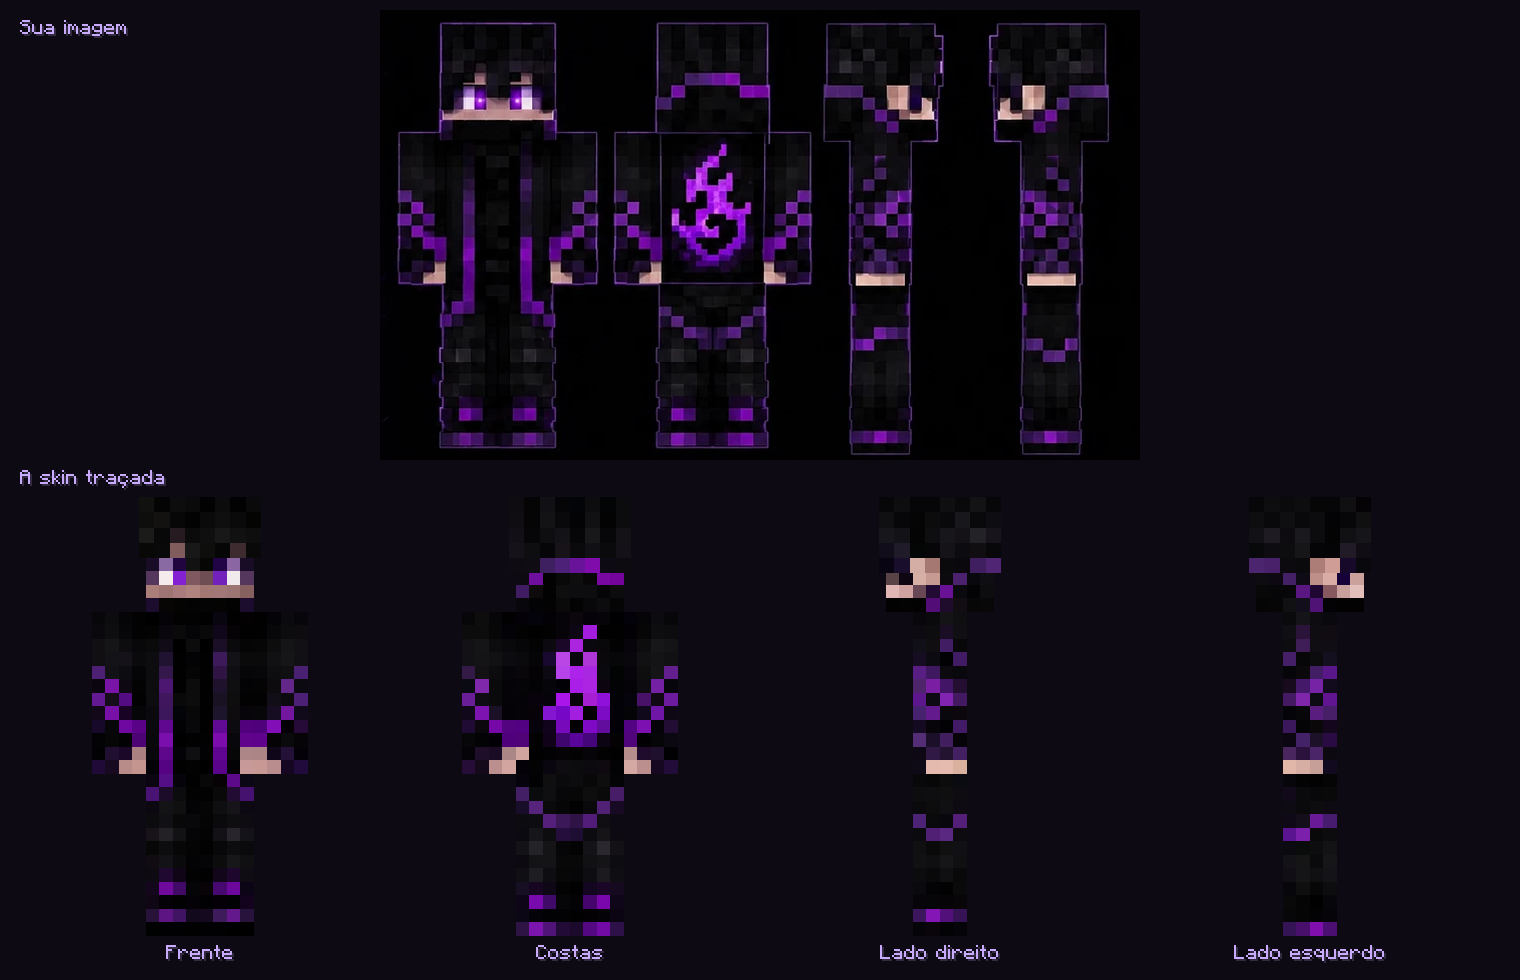
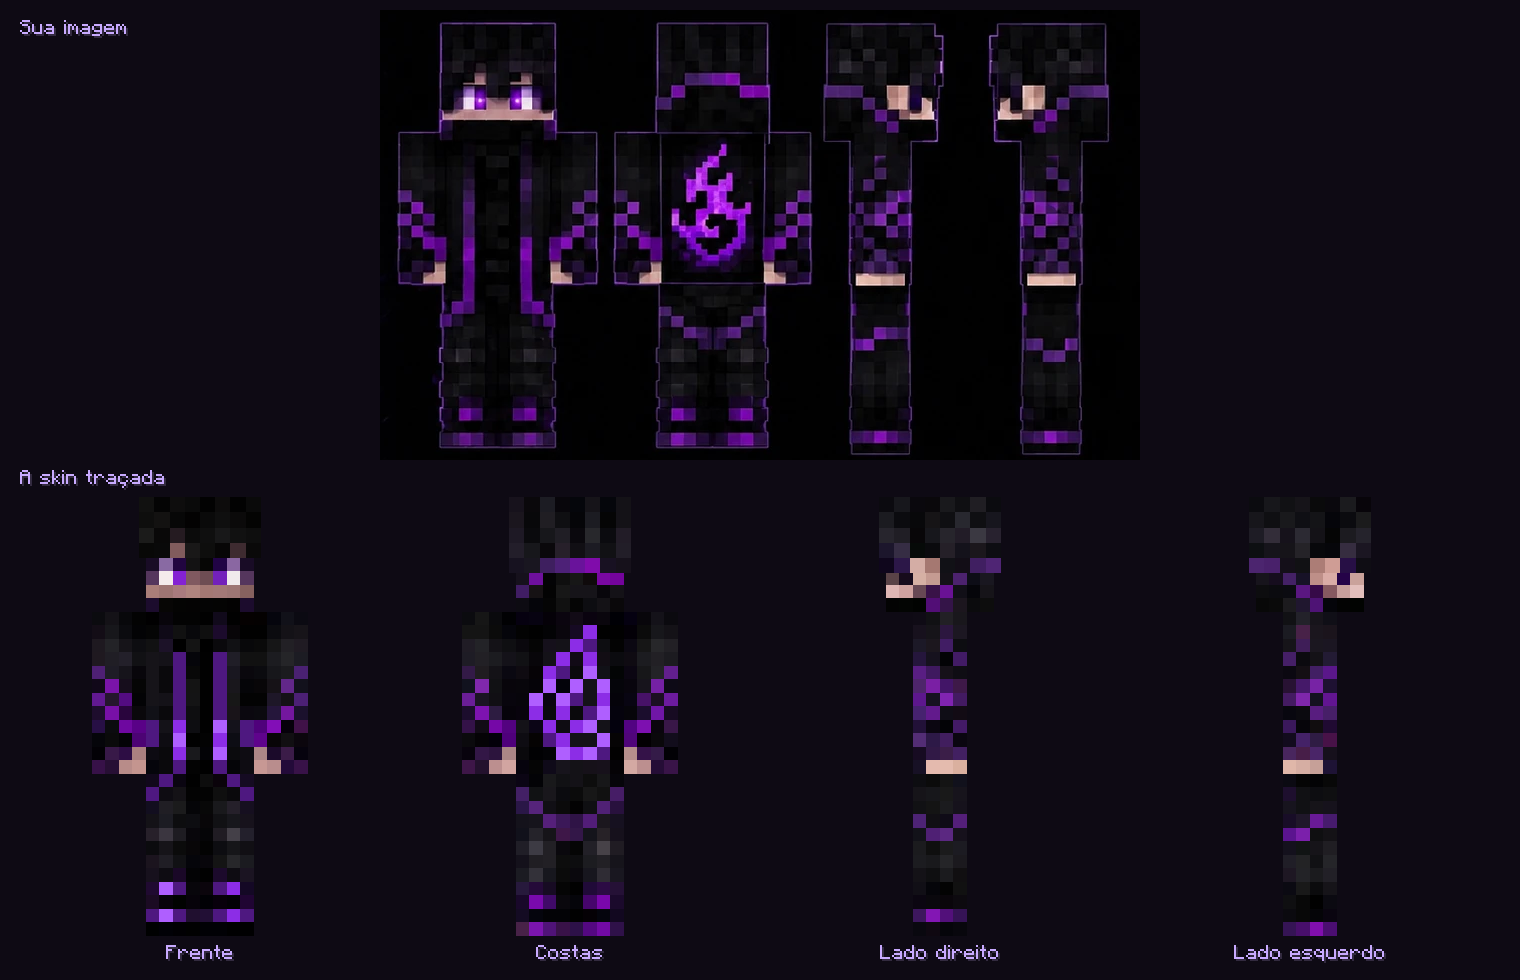
Skin Sombra Roxa tracada: chama em contorno, faixas do casaco e preto com textura
Claude-Session: https://claude.ai/code/session_01Vzt37KYgrEvBbcVjWKzEed

diff --git a/tools/gerar_skin_sombra_roxa_tracada.py b/tools/gerar_skin_sombra_roxa_tracada.py
@@ -38,7 +38,67 @@ def cor_do_bloco(p):
     for m in (roxo, pele):
         if m.mean() >= 0.35:
             return tuple(int(v) for v in np.median(p[m], axis=0))
-    return tuple(int(v) for v in np.median(p, axis=0))
+    c = np.median(p, axis=0)
+    if c.max() < 70:                       # bloco preto: realça a textura de cinza da referência
+        c = np.minimum(c * 1.7, 72)
+    return tuple(int(v) for v in c)
+
+
+# Desenhos feitos à mão, bloco a bloco, a partir do mapa de roxo da referência
+# (C = roxo vivo, N = roxo escuro, . = mantém o preto traçado).
+VIVO, MEDIO, ESCURO = (175, 95, 255), (140, 45, 230), (78, 24, 128)
+DESENHOS = {
+    "c_corpo": ["........",      # chama em contorno, como na referência: ponta à direita, pontinha à
+                ".....C..",      # esquerda, lados descendo, espiral por dentro e base fechada
+                "....CN..",
+                "...C.C..",
+                "..CN.C..",
+                "..C.C.C.",
+                ".C.CN.C.",
+                ".C.C.NC.",
+                "..C.CC..",
+                "..NC..C.",
+                "...CCCN.",
+                "........"],
+    "f_corpo": ["........",      # faixas do casaco: começam abaixo da gola, escuras em cima e vivas embaixo
+                "........",
+                "........",
+                "..N..N..",
+                "..N..N..",
+                "..N..N..",
+                "..N..N..",
+                "..N..N..",
+                "N.C..C.N",
+                "N.C..C.N",
+                "..C..C..",
+                "..N..N.."],
+    "f_perna_d": [".N..",        # perna direita: a faixa continua e se abre para fora
+                  "N...",
+                  "....", "....", "....", "....", "....", "....",
+                  ".CN.",          # blocos roxos acima da sola
+                  "....",
+                  "NCN.",          # sola
+                  "...."],
+    "f_perna_e": ["..N.",
+                  "...N",
+                  "....", "....", "....", "....", "....", "....",
+                  ".NC.",
+                  "....",
+                  ".NCN",
+                  "...."],
+}
+
+
+def aplicar_desenho(nome, g):
+    eh_roxo = lambda c: c[2] > c[1] + 25 and c[2] > 55
+    for j, linha in enumerate(DESENHOS[nome]):
+        for i, ch in enumerate(linha):
+            eh_pele = g[j][i][0] > 140 and g[j][i][0] > g[j][i][2]
+            if ch == "." and (eh_roxo(g[j][i]) or eh_pele):
+                g[j][i] = random.choice([(14, 12, 18), (20, 18, 24), (10, 9, 12)])   # só o desenho fica roxo
+            if ch == "C": g[j][i] = VIVO if (i + j) % 2 else MEDIO
+            elif ch == "N": g[j][i] = ESCURO
+    return g
 
 
 def encaixe(nome):
@@ -115,9 +175,8 @@ por(tracar("le_cabeca"), 16, 8)                          # lado esquerdo
 por(tracar("c_cabeca"), 24, 8)                           # nuca
 # ---------------- corpo
 liso(20, 16, 8, 4, ROUPA); liso(28, 16, 8, 4, ROUPA)
-corpo = tracar("f_corpo")
-por(corpo, 20, 20)
-por(tracar("c_corpo"), 32, 20)
+por(aplicar_desenho("f_corpo", tracar("f_corpo")), 20, 20)
+por(aplicar_desenho("c_corpo", tracar("c_corpo")), 32, 20)
 lado_corpo = [[tracar("f_corpo")[j][0]] * 0 + [random.choice(ROUPA)] * 4 for j in range(12)]
 por(lado_corpo, 16, 20); por(lado_corpo, 28, 20)
 # ---------------- braço direito (40,16) e esquerdo (32,48)
@@ -135,7 +194,7 @@ for (u, v, fr, co, fora, dentro_de) in [(0, 16, "f_perna_d", "c_perna_d", "ld_pe
     liso(u + 4, v, 4, 4, ROUPA); liso(u + 8, v, 4, 4, ROUPA)
     direita = (u == 0)
     por(tracar(fora) if direita else tracar(dentro_de), u, v + 4, espelhar=not direita)
-    por(tracar(fr), u + 4, v + 4)
+    por(aplicar_desenho(fr, tracar(fr)), u + 4, v + 4)
     por(tracar(dentro_de) if direita else tracar(fora), u + 8, v + 4, espelhar=direita)
     por(tracar(co), u + 12, v + 4)
 # ---------------- camada de cima: cabelo com volume (capuz de cabelo), copiando a camada de baixo
